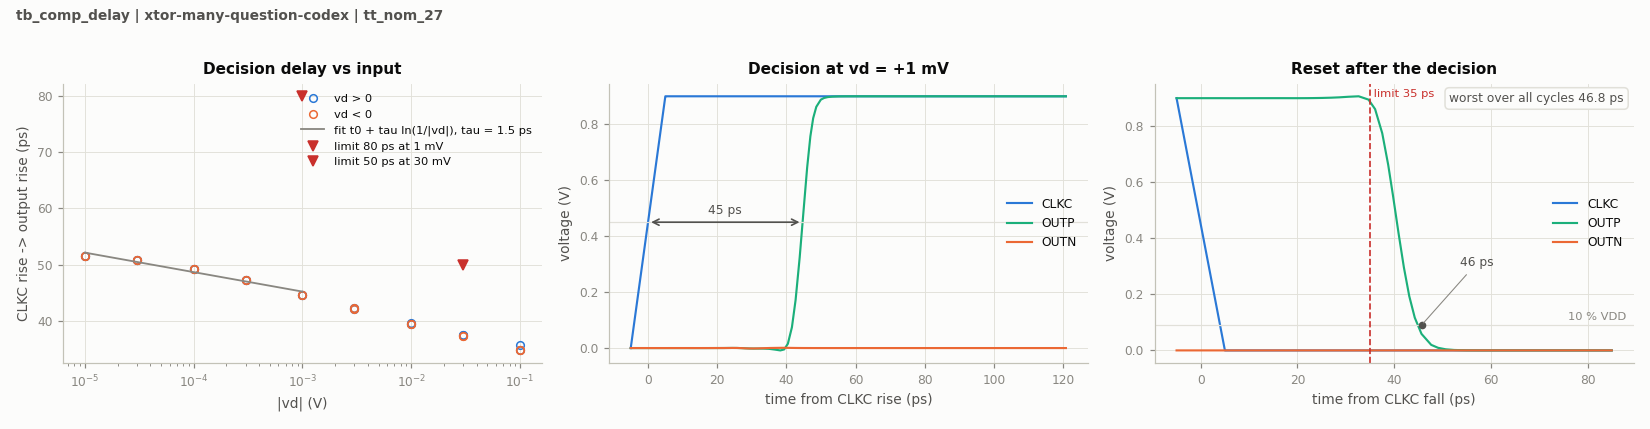
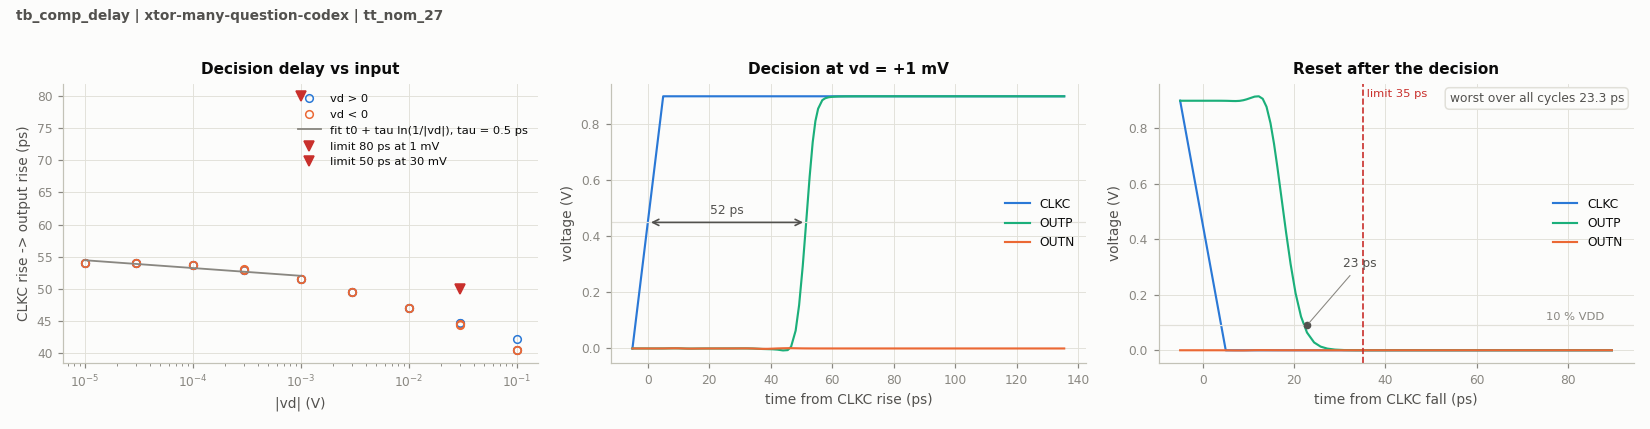
docs(adc_comp): distinguish revisions and retain noise failures

diff --git a/design/xtor/adc_comp/many-question-codex/README.md b/design/xtor/adc_comp/many-question-codex/README.md
@@ -1,9 +1,10 @@
 # Dynamic comparator candidate
 
-This WIP candidate uses an NMOS dynamic differential preamplifier followed by a
-complementary regenerative stage. The preamplifier and regenerative stage have
-separate clocked supply paths. Symmetric two-inverter output buffers drive the
-specified 10 fF loads and return both outputs to zero in reset.
+The current 30-transistor WIP candidate uses an NMOS dynamic differential
+preamplifier followed by a complementary regenerative stage. The preamplifier
+and regenerative stage have separate clocked supply paths. Each output uses a
+clock-enabled NAND followed by an inverter, driving the specified 10 fF load.
+The NAND resets the external output promptly while the internal latch resets.
 
 For INP greater than INN, DP discharges first. The PMOS sense branch then raises
 QP, suppresses QN through cross coupling, and asserts OUTP. A local clock buffer
@@ -14,5 +15,20 @@ solutions. The complete RNL drawing includes placement, wiring, differential-pai
 matched-device and stage-group semantics.
 
 Validation is in progress. No full-corner, noise or mismatch pass is claimed.
-Issue #40 is acknowledged. Issue #63 tracks the missing public flow for 50 actual
-device-mismatch samples; transient-noise repetitions do not satisfy CMP-03.
+
+| Circuit revision | Evidence and limitation |
+|---|---|
+| `205f419` (26 MOS, smaller input pair) | Official TT timing and input-charge checks pass. Noise pilot: 325.1 uV, 95% CI 295.4–359.2 uV. Supplemental ff/high/125 SOA fails: 6 of 78 pairs, maximum 1.01193 V. |
+| `3cc79ff` (26 MOS, larger input pair) | TT noise pilot improves to 249.5 uV, CI 224.8–277.6 uV, but reset is 46.85 ps and fails. |
+| `ea81846` / `227305a` (30 MOS, NAND/INV outputs) | Official TT delay is 51.50 ps at 1 mV and 44.50 ps at 30 mV; reset 23.28 ps; energy 178.8 fJ; errors 0. Input capacitance 18.83 fF, CLKC 5.063 fF. The noise pilot worsens to 754.4 uV, CI 665.0–869.0 uV; further input-stage work is required. |
+
+Each noise pilot used 17 levels, 64 decisions per level, fixed seed 1 and a
+50 GHz noise bandwidth. These pilots are characterization, not the official
+17-by-512 acceptance test. Raw data and exact decks are retained outside git.
+Numbers from different revisions must not be combined into a passing result.
+
+Issue #40 is acknowledged. Under the decision in #63, CMP-03 will use 50 TT
+local-mismatch samples, transient noise off, a fixed seed, a +/-25 mV offset
+search with about 10 uV resolution, and sample standard deviation (n-1).
+Any failed sample must fail CMP-03. The independent public flow is pending;
+transient-noise repetitions do not satisfy this requirement.
